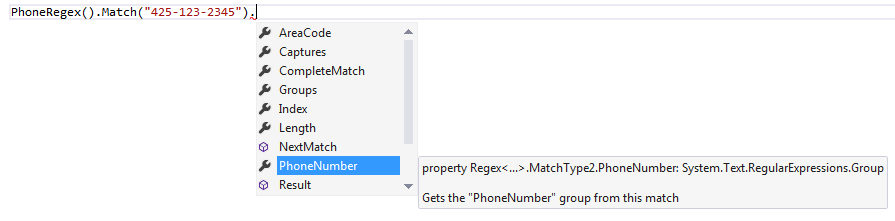
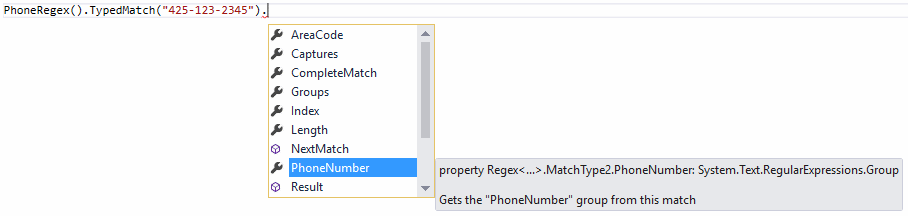
Update generated documentation for version 1.0.0

Changed region(s): [[0.2715, 0.3889, 0.9955, 1.0], [0.2715, 0.1111, 0.4827, 0.6667], [0.0, 0.0278, 0.3017, 0.0833]]

diff --git a/index.html b/index.html
@@ -72,12 +72,12 @@
 <span class="prep">#r</span> <span class="s">&quot;FSharp.Text.RegexProvider.dll&quot;</span>
 <span class="k">open</span> <span onmouseout="hideTip(event, 'fs1', 1)" onmouseover="showTip(event, 'fs1', 1)" class="i">FSharp</span><span class="o">.</span><span onmouseout="hideTip(event, 'fs2', 2)" onmouseover="showTip(event, 'fs2', 2)" class="i">Text</span><span class="o">.</span><span onmouseout="hideTip(event, 'fs3', 3)" onmouseover="showTip(event, 'fs3', 3)" class="i">RegexProvider</span>
 
-<span class="c">// Let the type provider do it&#39;s work</span>
-<span class="k">type</span> <span onmouseout="hideTip(event, 'fs4', 4)" onmouseover="showTip(event, 'fs4', 4)" class="t">PhoneRegex</span> <span class="o">=</span> <span onmouseout="hideTip(event, 'fs5', 5)" onmouseover="showTip(event, 'fs5', 5)" class="t">Regex</span><span class="o">&lt;</span> <span class="s">@&quot;(?&lt;AreaCode&gt;^\d{3})-(?&lt;PhoneNumber&gt;\d{3}-\d{4}$)&quot;</span><span class="o">&gt;</span>
+<span class="c">// Let the type provider do its work</span>
+<span class="k">type</span> <span onmouseout="hideTip(event, 'fs4', 4)" onmouseover="showTip(event, 'fs4', 4)" class="t">PhoneRegex</span> <span class="o">=</span> <span onmouseout="hideTip(event, 'fs5', 5)" onmouseover="showTip(event, 'fs5', 5)" class="t">Regex</span><span class="o">&lt;</span> <span class="s">@&quot;(?&lt;AreaCode&gt;^\d{3})-(?&lt;PhoneNumber&gt;\d{3}-\d{4}$)&quot;</span> <span class="o">&gt;</span>
 
 
 <span class="c">// now you have typed access to the regex groups and you can browse it via Intellisense</span>
-<span onmouseout="hideTip(event, 'fs4', 6)" onmouseover="showTip(event, 'fs4', 6)" class="t">PhoneRegex</span>()<span class="o">.</span><span class="f">Match</span>(<span class="s">&quot;425-123-2345&quot;</span>)<span class="o">.</span><span class="i">AreaCode</span><span class="o">.</span><span class="i">Value</span>
+<span onmouseout="hideTip(event, 'fs4', 6)" onmouseover="showTip(event, 'fs4', 6)" class="t">PhoneRegex</span>()<span class="o">.</span><span class="f">TypedMatch</span>(<span class="s">&quot;425-123-2345&quot;</span>)<span class="o">.</span><span class="i">AreaCode</span><span class="o">.</span><span class="i">Value</span>
 
 <span class="fsi">val it : string = &quot;425&quot;</span>
 </pre>
@@ -86,6 +86,34 @@
 </table>
 
 <p><img src="img/RegexProvider.png" alt="alt text" title="Intellisense for regular expressions" /></p>
+
+<p>Note that since version 1.0, generated methods are prefixed by <code>Typed</code> by default.
+You can disable this behaviour using the parameter <code>noMethodPrefix</code>:</p>
+
+<table class="pre"><tr><td class="lines"><pre class="fssnip">
+<span class="l">1: </span>
+<span class="l">2: </span>
+<span class="l">3: </span>
+<span class="l">4: </span>
+<span class="l">5: </span>
+<span class="l">6: </span>
+<span class="l">7: </span>
+<span class="l">8: </span>
+</pre>
+</td>
+<td class="snippet"><pre class="fssnip">
+<span class="k">type</span> <span onmouseout="hideTip(event, 'fs6', 7)" onmouseover="showTip(event, 'fs6', 7)" class="t">MultiplePhoneRegex</span> <span class="o">=</span> <span onmouseout="hideTip(event, 'fs5', 8)" onmouseover="showTip(event, 'fs5', 8)" class="t">Regex</span><span class="o">&lt;</span> <span class="s">@&quot;\b(?&lt;AreaCode&gt;\d{3})-(?&lt;PhoneNumber&gt;\d{3}-\d{4})\b&quot;</span>, <span class="i">noMethodPrefix</span> <span class="o">=</span> <span class="k">true</span> <span class="o">&gt;</span>
+
+<span class="c">// now the generated types are just added as an overload of the existing method name on the `Regex` type</span>
+<span onmouseout="hideTip(event, 'fs6', 9)" onmouseover="showTip(event, 'fs6', 9)" class="t">MultiplePhoneRegex</span>()<span class="o">.</span><span class="f">Matches</span>(<span class="s">&quot;425-123-2345, 426-123-2346, 427-123-2347&quot;</span>)
+<span class="o">|&gt;</span> <span onmouseout="hideTip(event, 'fs7', 10)" onmouseover="showTip(event, 'fs7', 10)" class="t">Seq</span><span class="o">.</span><span onmouseout="hideTip(event, 'fs8', 11)" onmouseover="showTip(event, 'fs8', 11)" class="f">map</span> (<span class="k">fun</span> <span onmouseout="hideTip(event, 'fs9', 12)" onmouseover="showTip(event, 'fs9', 12)" class="i">x</span> <span class="k">-&gt;</span> <span onmouseout="hideTip(event, 'fs9', 13)" onmouseover="showTip(event, 'fs9', 13)" class="i">x</span><span class="o">.</span><span onmouseout="hideTip(event, 'fs10', 14)" onmouseover="showTip(event, 'fs10', 14)" class="i">AreaCode</span><span class="o">.</span><span onmouseout="hideTip(event, 'fs11', 15)" onmouseover="showTip(event, 'fs11', 15)" class="i">Value</span>)
+<span class="o">|&gt;</span> <span onmouseout="hideTip(event, 'fs12', 16)" onmouseover="showTip(event, 'fs12', 16)" class="t">List</span><span class="o">.</span><span onmouseout="hideTip(event, 'fs13', 17)" onmouseover="showTip(event, 'fs13', 17)" class="f">ofSeq</span>
+
+<span class="fsi">val it : string list = [&quot;425&quot;; &quot;426&quot;; &quot;427&quot;]</span>
+</pre>
+</td>
+</tr>
+</table>
 
 <h2><a name="Contributing-and-copyright" class="anchor" href="#Contributing-and-copyright">Contributing and copyright</a></h2>
 
@@ -103,6 +131,14 @@ redistribution for both commercial and non-commercial purposes. For more informa
 <div class="tip" id="fs3">namespace FSharp.Text.RegexProvider</div>
 <div class="tip" id="fs4">type PhoneRegex = Regex&lt;...&gt;<br /><br />Full name: Index.PhoneRegex</div>
 <div class="tip" id="fs5">type Regex =<br />&#160;&#160;inherit Regex<br />&#160;&#160;member Options : RegexOptions<br />&#160;&#160;member RightToLeft : bool<br />&#160;&#160;val capnames : Hashtable<br />&#160;&#160;val caps : Hashtable<br />&#160;&#160;val capsize : int<br />&#160;&#160;val capslist : string []<br />&#160;&#160;val factory : RegexRunnerFactory<br />&#160;&#160;val pattern : string<br />&#160;&#160;val roptions : RegexOptions<br />&#160;&#160;...<br /><br />Full name: FSharp.Text.RegexProvider.Regex</div>
+<div class="tip" id="fs6">type MultiplePhoneRegex = Regex&lt;...&gt;<br /><br />Full name: Index.MultiplePhoneRegex</div>
+<div class="tip" id="fs7">module Seq<br /><br />from Microsoft.FSharp.Collections</div>
+<div class="tip" id="fs8">val map : mapping:(&#39;T -&gt; &#39;U) -&gt; source:seq&lt;&#39;T&gt; -&gt; seq&lt;&#39;U&gt;<br /><br />Full name: Microsoft.FSharp.Collections.Seq.map</div>
+<div class="tip" id="fs9">val x : Regex&lt;...&gt;.MatchType5</div>
+<div class="tip" id="fs10">property Regex&lt;...&gt;.MatchType5.AreaCode: System.Text.RegularExpressions.Group<br /><em><br /><br />Gets the &quot;AreaCode&quot; group from this match</em></div>
+<div class="tip" id="fs11">property System.Text.RegularExpressions.Capture.Value: string</div>
+<div class="tip" id="fs12">Multiple items<br />module List<br /><br />from Microsoft.FSharp.Collections<br /><br />--------------------<br />type List&lt;&#39;T&gt; =<br />&#160;&#160;| ( [] )<br />&#160;&#160;| ( :: ) of Head: &#39;T * Tail: &#39;T list<br />&#160;&#160;interface IEnumerable<br />&#160;&#160;interface IEnumerable&lt;&#39;T&gt;<br />&#160;&#160;member GetSlice : startIndex:int option * endIndex:int option -&gt; &#39;T list<br />&#160;&#160;member Head : &#39;T<br />&#160;&#160;member IsEmpty : bool<br />&#160;&#160;member Item : index:int -&gt; &#39;T with get<br />&#160;&#160;member Length : int<br />&#160;&#160;member Tail : &#39;T list<br />&#160;&#160;static member Cons : head:&#39;T * tail:&#39;T list -&gt; &#39;T list<br />&#160;&#160;static member Empty : &#39;T list<br /><br />Full name: Microsoft.FSharp.Collections.List&lt;_&gt;</div>
+<div class="tip" id="fs13">val ofSeq : source:seq&lt;&#39;T&gt; -&gt; &#39;T list<br /><br />Full name: Microsoft.FSharp.Collections.List.ofSeq</div>
 
         </div>
         <div class="span3">

diff --git a/reference/samples-fsharp-providedtypes-typeproviderfornamespaces.html b/reference/samples-fsharp-providedtypes-typeproviderfornamespaces.html
@@ -51,10 +51,10 @@ types are of type ProvidedTypeDefinition.</p>
       <tr>
         <td class="member-name">
 
-          <code onmouseout="hideTip(event, '7', 7)" onmouseover="showTip(event, '7', 7)">
+          <code onmouseout="hideTip(event, '8', 8)" onmouseover="showTip(event, '8', 8)">
             Invalidate()
           </code>
-          <div class="tip" id="7">
+          <div class="tip" id="8">
             <strong>Signature:</strong> unit -&gt; unit<br />
                       </div>
         </td>
@@ -72,10 +72,10 @@ types are of type ProvidedTypeDefinition.</p>
       <tr>
         <td class="member-name">
 
-          <code onmouseout="hideTip(event, '8', 8)" onmouseover="showTip(event, '8', 8)">
+          <code onmouseout="hideTip(event, '9', 9)" onmouseover="showTip(event, '9', 9)">
             RegisterProbingFolder(folder)
           </code>
-          <div class="tip" id="8">
+          <div class="tip" id="9">
             <strong>Signature:</strong> folder:string -&gt; unit<br />
                       </div>
         </td>
@@ -93,10 +93,10 @@ types are of type ProvidedTypeDefinition.</p>
       <tr>
         <td class="member-name">
 
-          <code onmouseout="hideTip(event, '9', 9)" onmouseover="showTip(event, '9', 9)">
+          <code onmouseout="hideTip(event, '10', 10)" onmouseover="showTip(event, '10', 10)">
             RegisterRuntimeAssemblyLocationAsProbingFolder(...)
           </code>
-          <div class="tip" id="9">
+          <div class="tip" id="10">
             <strong>Signature:</strong> cfg:TypeProviderConfig -&gt; unit<br />
                       </div>
         </td>
@@ -114,10 +114,10 @@ types are of type ProvidedTypeDefinition.</p>
       <tr>
         <td class="member-name">
 
-          <code onmouseout="hideTip(event, '10', 10)" onmouseover="showTip(event, '10', 10)">
+          <code onmouseout="hideTip(event, '11', 11)" onmouseover="showTip(event, '11', 11)">
             ResolveAssembly(arg1)
           </code>
-          <div class="tip" id="10">
+          <div class="tip" id="11">
             <strong>Signature:</strong> ResolveEventArgs -&gt; Assembly<br />
               <strong>Modifiers:</strong> abstract<br />
                       </div>

diff --git a/reference/samples-fsharp-providedtypes-providedassembly.html b/reference/samples-fsharp-providedtypes-providedassembly.html
@@ -50,10 +50,10 @@
       <tr>
         <td class="member-name">
 
-          <code onmouseout="hideTip(event, '3', 3)" onmouseover="showTip(event, '3', 3)">
+          <code onmouseout="hideTip(event, '4', 4)" onmouseover="showTip(event, '4', 4)">
             new(assemblyFileName)
           </code>
-          <div class="tip" id="3">
+          <div class="tip" id="4">
             <strong>Signature:</strong> assemblyFileName:string -&gt; ProvidedAssembly<br />
                       </div>
         </td>
@@ -76,10 +76,10 @@
       <tr>
         <td class="member-name">
 
-          <code onmouseout="hideTip(event, '4', 4)" onmouseover="showTip(event, '4', 4)">
+          <code onmouseout="hideTip(event, '5', 5)" onmouseover="showTip(event, '5', 5)">
             AddNestedTypes(...)
           </code>
-          <div class="tip" id="4">
+          <div class="tip" id="5">
             <strong>Signature:</strong> (types:ProvidedTypeDefinition list * enclosingGeneratedTypeNames:string list) -&gt; unit<br />
                       </div>
         </td>
@@ -94,10 +94,10 @@
       <tr>
         <td class="member-name">
 
-          <code onmouseout="hideTip(event, '5', 5)" onmouseover="showTip(event, '5', 5)">
+          <code onmouseout="hideTip(event, '6', 6)" onmouseover="showTip(event, '6', 6)">
             AddTypes(types)
           </code>
-          <div class="tip" id="5">
+          <div class="tip" id="6">
             <strong>Signature:</strong> (types:ProvidedTypeDefinition list) -&gt; unit<br />
                       </div>
         </td>
@@ -128,10 +128,10 @@ The host F# compiler does this when processing a generative type declaration for
       <tr>
         <td class="member-name">
 
-          <code onmouseout="hideTip(event, '6', 6)" onmouseover="showTip(event, '6', 6)">
+          <code onmouseout="hideTip(event, '7', 7)" onmouseover="showTip(event, '7', 7)">
             RegisterGenerated(fileName)
           </code>
-          <div class="tip" id="6">
+          <div class="tip" id="7">
             <strong>Signature:</strong> fileName:string -&gt; Assembly<br />
                       </div>
         </td>

diff --git a/reference/fsharp-text-regexprovider-regexprovider.html b/reference/fsharp-text-regexprovider-regexprovider.html
@@ -47,15 +47,15 @@
       <tr>
         <td class="member-name">
 
-          <code onmouseout="hideTip(event, '2', 2)" onmouseover="showTip(event, '2', 2)">
+          <code onmouseout="hideTip(event, '3', 3)" onmouseover="showTip(event, '3', 3)">
             new(cfg)
           </code>
-          <div class="tip" id="2">
+          <div class="tip" id="3">
             <strong>Signature:</strong> cfg:TypeProviderConfig -&gt; RegexProvider<br />
                       </div>
         </td>
         <td class="xmldoc">
-            <a href="http://github.com/fsprojects/FSharp.Text.RegexProvider/tree/master/src/RegexProvider/RegexProvider.fs#L98-98" class="github-link">
+            <a href="http://github.com/fsprojects/FSharp.Text.RegexProvider/tree/master/src/RegexProvider/RegexProvider.fs#L107-107" class="github-link">
               <img src="../content/img/github.png" class="normal" />
               <img src="../content/img/github-blue.png" class="hover" />
             </a>

diff --git a/reference/fsharp-text-regexprovider-regex.html b/reference/fsharp-text-regexprovider-regex.html
@@ -62,6 +62,24 @@
           
         </td>
       </tr>
+      <tr>
+        <td class="member-name">
+
+          <code onmouseout="hideTip(event, '2', 2)" onmouseover="showTip(event, '2', 2)">
+            noMethodPrefix
+          </code>
+          <div class="tip" id="2">
+            <strong>Signature:</strong> bool (optional, default = false)<br />
+                      </div>
+        </td>
+        <td class="xmldoc">
+            <a href="http://github.com/fsprojects/FSharp.Text.RegexProvider/tree/master/docs/tools/startup#L1-1" class="github-link">
+              <img src="../content/img/github.png" class="normal" />
+              <img src="../content/img/github-blue.png" class="hover" />
+            </a>
+          
+        </td>
+      </tr>
     </tbody>
   </table>
 

diff --git a/release-notes.html b/release-notes.html
@@ -32,6 +32,12 @@
       <div class="row">
         <div class="span9" id="main">
           
+<h4><a name="1-0-0-07-07-2016" class="anchor" href="#1-0-0-07-07-2016">1.0.0 - 07.07.2016</a></h4>
+
+<ul>
+<li>Added a <code>Typed</code> prefix to generated methods - <a href="https://github.com/fsprojects/FSharp.Text.RegexProvider/issues/16">https://github.com/fsprojects/FSharp.Text.RegexProvider/issues/16</a></li>
+</ul>
+
 <h4><a name="0-0-7-30-05-2015" class="anchor" href="#0-0-7-30-05-2015">0.0.7 - 30.05.2015</a></h4>
 
 <ul>
